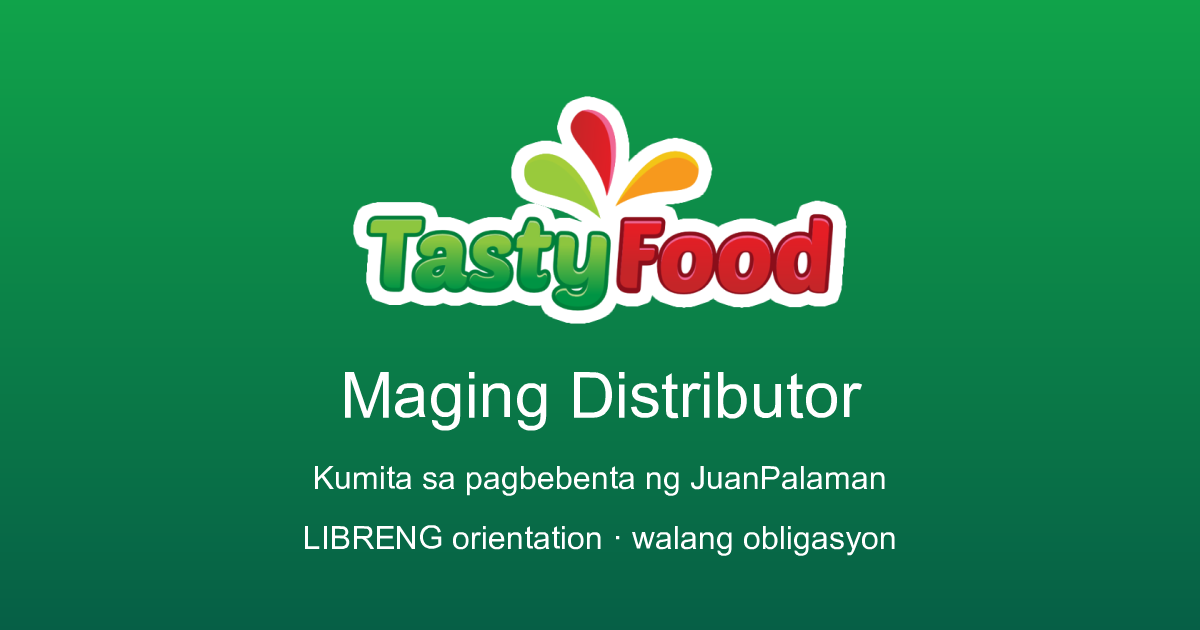
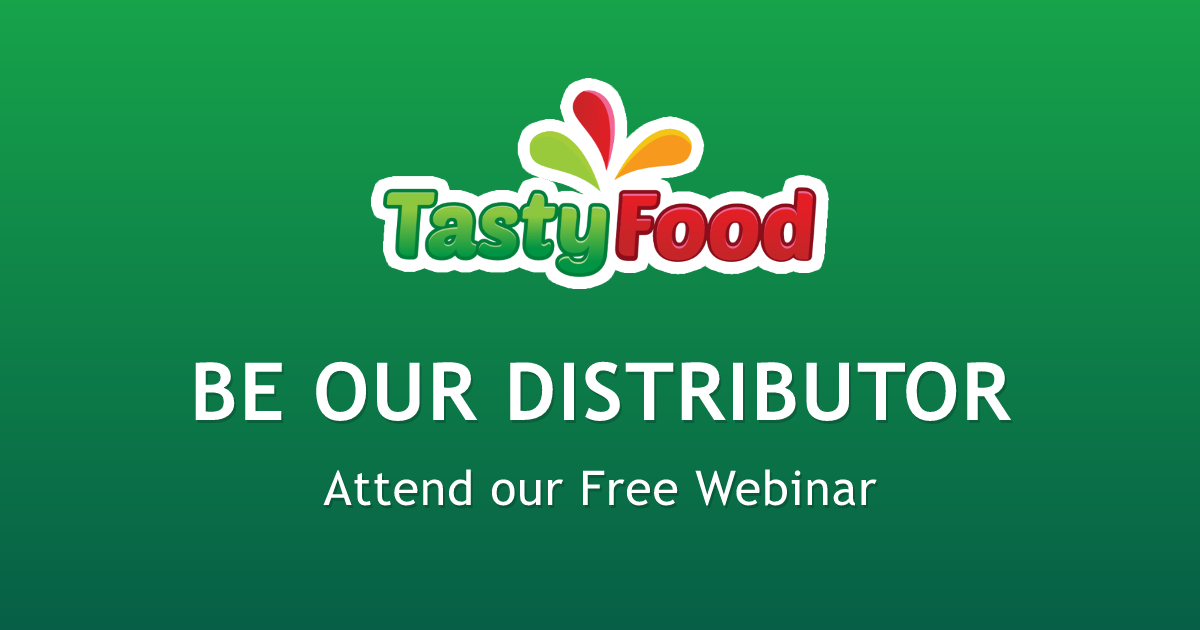
Redo OG cards (Trebuchet font, new copy) + friendlier FB token error
- og-shop.png: JuanPalaman logo + 'Order Online' only.
- og-join.png: Tasty Food + 'BE OUR DISTRIBUTOR / Attend our Free Webinar';
  join.html preview text aligned to match.
- fb-ads/sync: on Meta error code 190 (expired/invalid token) return a clear
  'reconnect' message instead of Meta's raw wording.

Changed region(s): [[0.2775, 0.1206, 0.7092, 0.5127], [0.1542, 0.573, 0.8633, 0.6937], [0.2467, 0.7238, 0.7708, 0.8746]]

diff --git a/backend/src/modules/marketing/marketing.routes.ts b/backend/src/modules/marketing/marketing.routes.ts
@@ -140,7 +140,18 @@ async function fbGetAll(path: string, params: Record<string, string>, token: str
   while (next && guard++ < 50) {
     const res = await gfetch(next);
     const j = await res.json();
-    if (j.error) throw badRequest(`Facebook: ${j.error.message}`);
+    if (j.error) {
+      // Code 190 = the access token expired or was invalidated (e.g. the
+      // Facebook user logged out). Nothing is wrong with the app — the stored
+      // token just needs replacing — so say exactly that instead of leaking
+      // Meta's raw wording.
+      if (j.error.code === 190 || /access token/i.test(j.error.message || '')) {
+        throw badRequest(
+          'Your Facebook connection has expired. Generate a new Meta access token (a non-expiring System User token is best) and update FB_ADS_TOKEN, then sync again.'
+        );
+      }
+      throw badRequest(`Facebook: ${j.error.message}`);
+    }
     out.push(...(j.data || []));
     next = j.paging?.next ?? null;
   }
